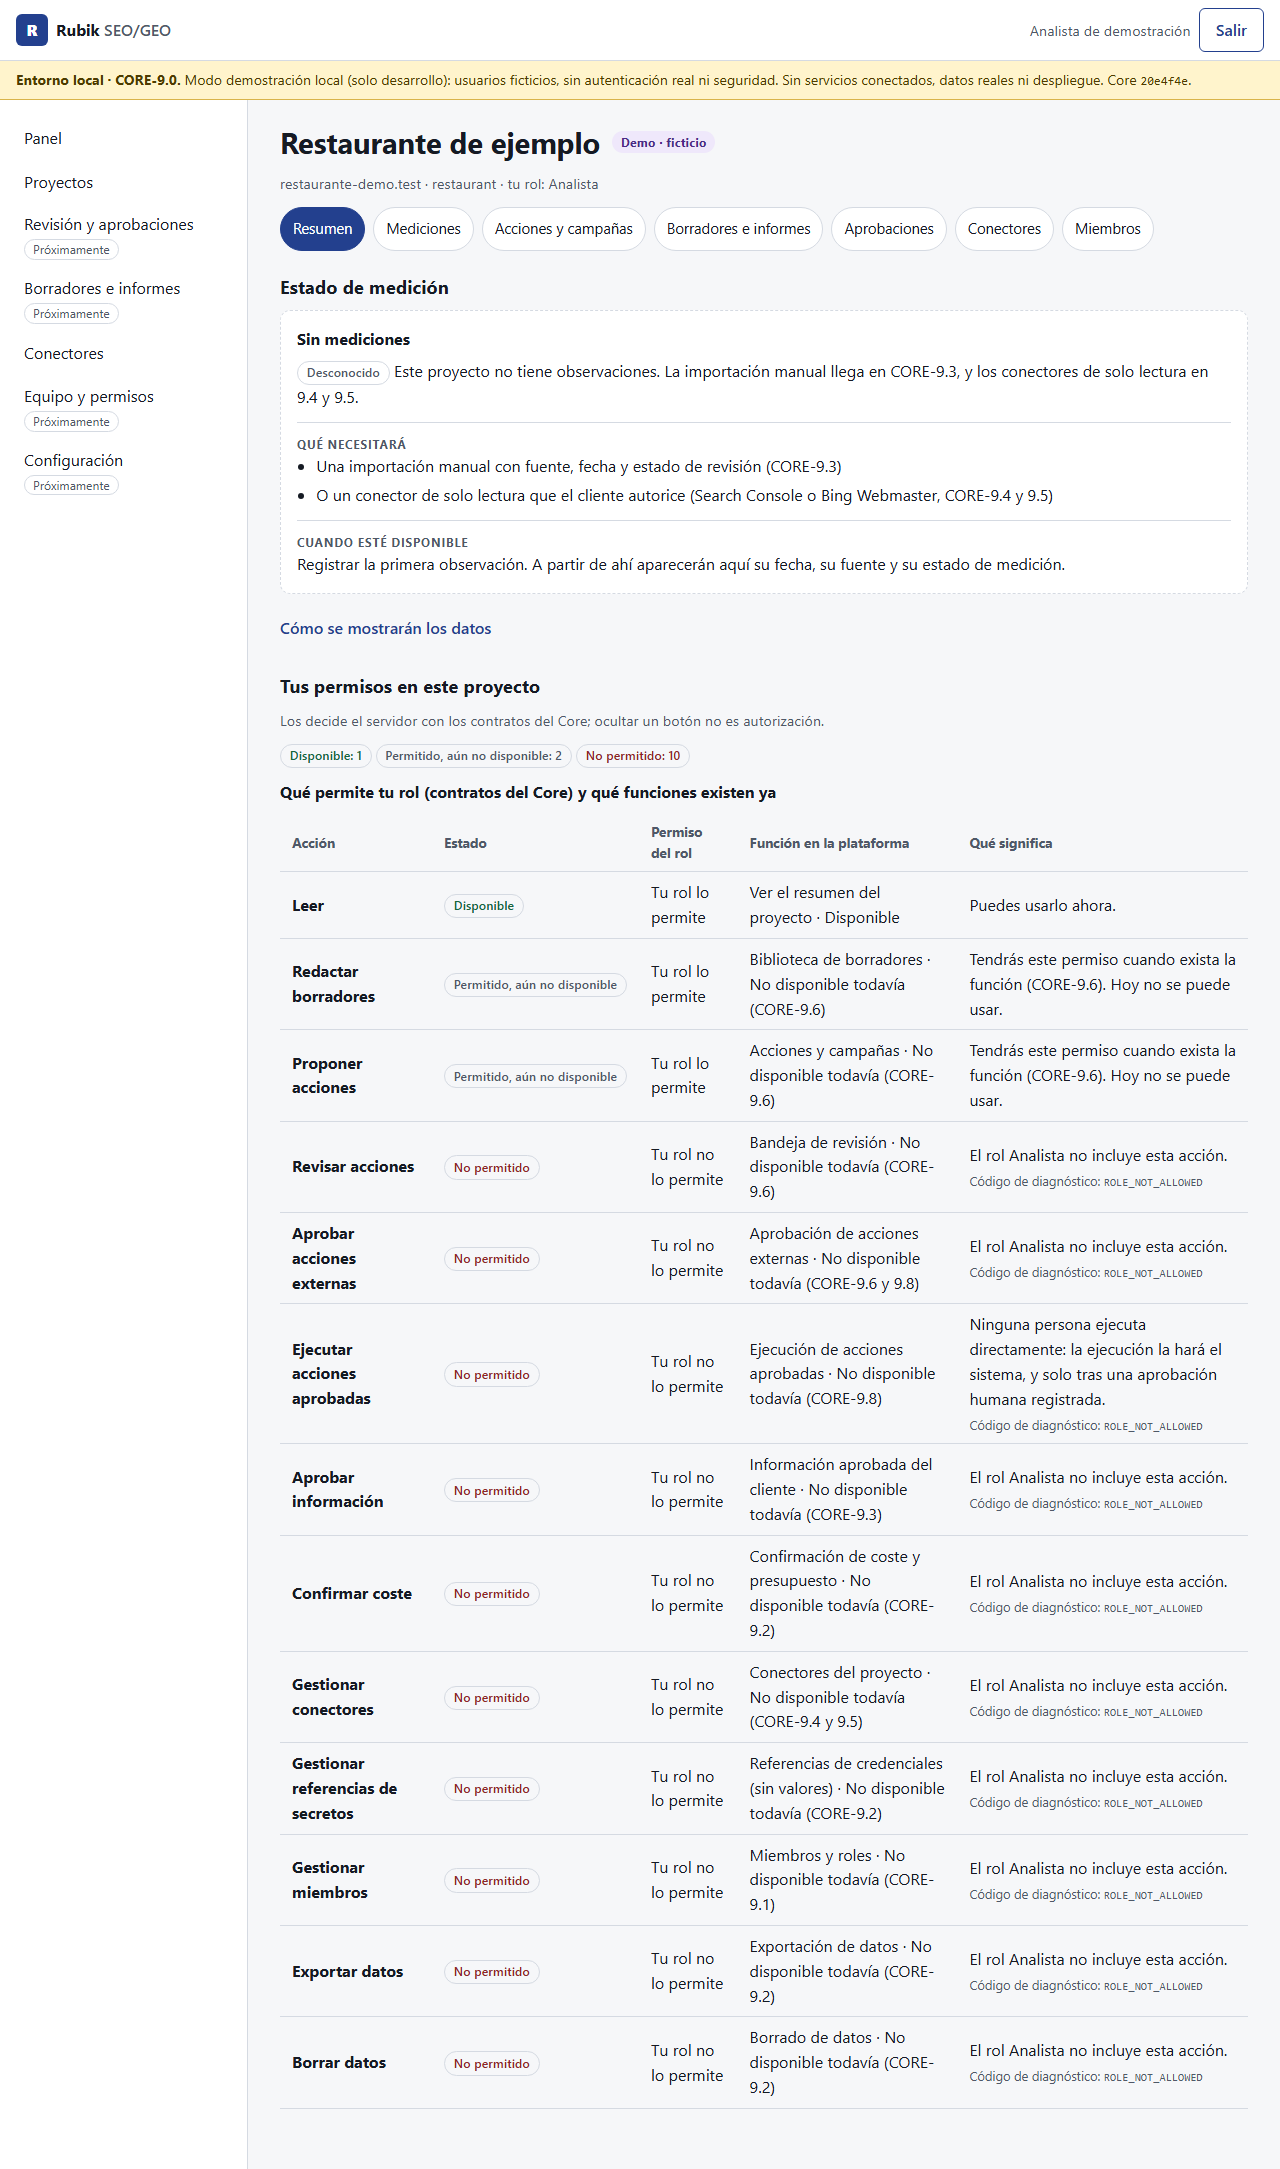
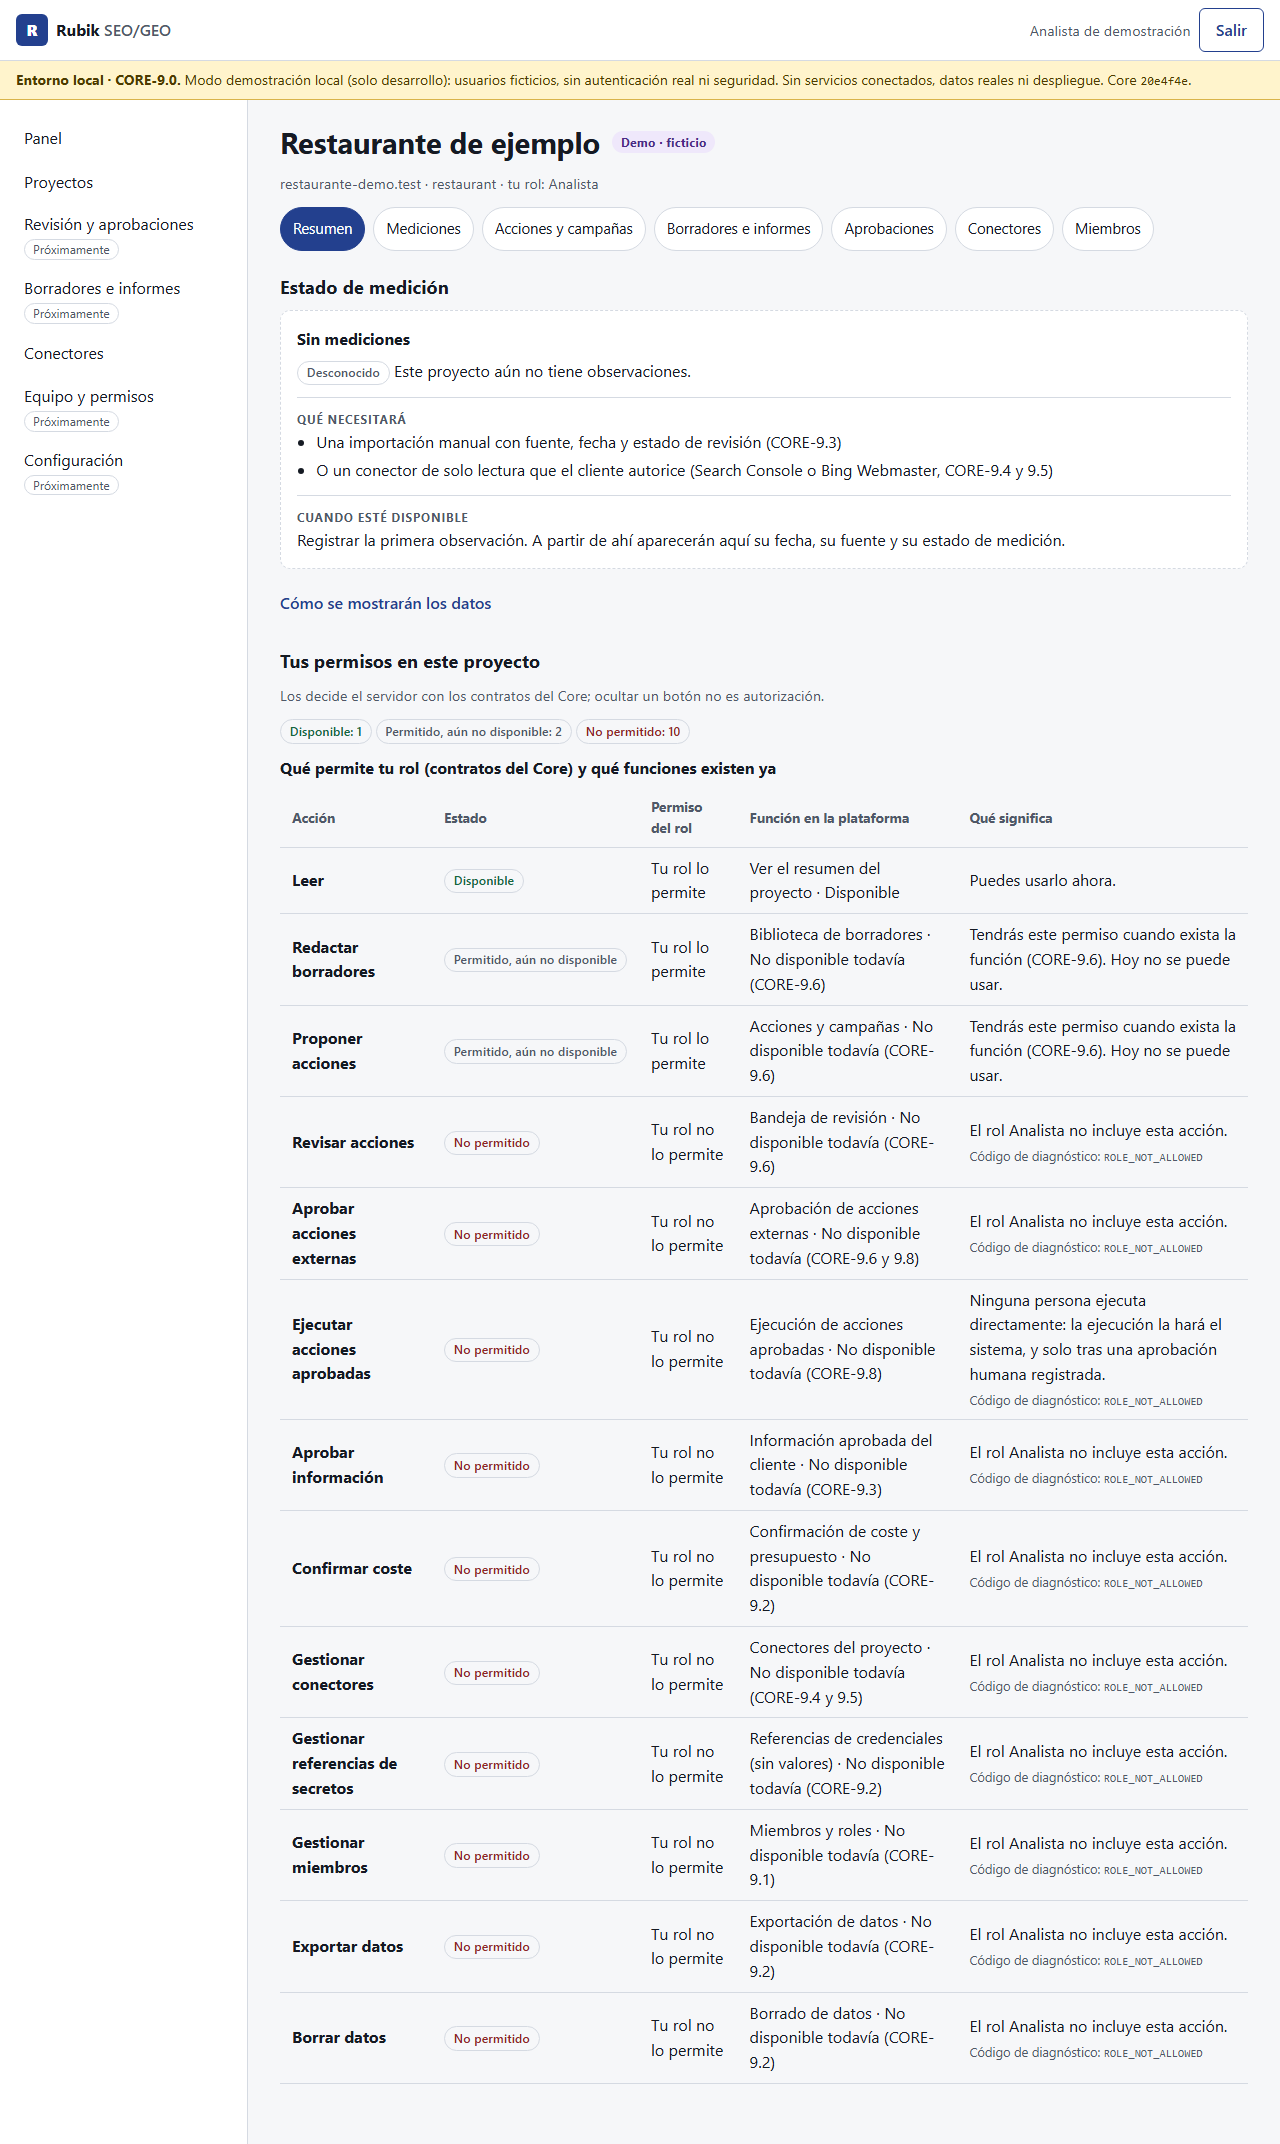
fix(core-9.0): review touch-ups on PR #1
- Project summary: the measurements empty state keeps a short main text
  ('Este proyecto aún no tiene observaciones'); stages appear only in
  'Qué necesitará', with 'Cuando esté disponible' unchanged.
- /proyectos: NOT_A_MEMBER_OF_SCOPE moved out of the user-facing text into
  a collapsed 'Información técnica' detail.
- e2e: the code is hidden by default and only inside details.tech; the
  empty state does not repeat stages; the new control is in the touch
  target check. Playwright 57/57; screenshots regenerated.
- ROADMAP/HANDOFF: HEAD d6e55b9 with run 36418555762 (green verify and
  ui), keeping earlier runs in a per-commit CI history.

diff --git a/e2e/visual.spec.ts b/e2e/visual.spec.ts
@@ -75,7 +75,7 @@ for (const p of PAGES) {
     expect(serious.map((v) => `${v.id}: ${v.nodes.map((n) => n.target.join(" ")).join(", ")}`)).toEqual([]);
 
     if (info.project.name.startsWith("movil")) {
-      const small = await page.$$eval(".btn, button, .nav-link, .mobile-nav > summary, .subnav a, .legend > summary", (els) =>
+      const small = await page.$$eval(".btn, button, .nav-link, .mobile-nav > summary, .subnav a, .legend > summary, .tech > summary", (els) =>
         els
           .filter((el) => (el as HTMLElement).offsetParent !== null)
           .map((el) => ({ text: (el.textContent ?? "").trim().slice(0, 30), h: el.getBoundingClientRect().height }))
@@ -162,4 +162,26 @@ test("unavailable areas explain what they will need and the next step", async ({
   }
   await page.goto("/panel");
   await expect(page.getByText("Qué necesitará")).toHaveCount(2);
+});
+
+test("projects page: the Core denial code is only secondary technical information", async ({ page, baseURL }) => {
+  await signInWithCookie(page, "demo-owner", baseURL!);
+  await page.goto("/proyectos");
+  const code = page.getByText("NOT_A_MEMBER_OF_SCOPE");
+  await expect(code).toHaveCount(1);
+  await expect(code).toBeHidden();
+  expect(await code.evaluate((el) => !!el.closest("details.tech") && !el.closest("main > p"))).toBe(true);
+  await page.getByText("Información técnica").click();
+  await expect(code).toBeVisible();
+});
+
+test("project summary: the measurements empty state does not repeat the stages", async ({ page, baseURL }) => {
+  await signInWithCookie(page, "demo-analyst", baseURL!);
+  await page.goto("/proyectos/agencia-demo/restaurante-demo");
+  const empty = page.locator("section#s-estado, section[aria-labelledby=s-estado]").locator(".empty");
+  await expect(empty.locator(".empty-body")).toHaveText(/^\s*Desconocido\s+Este proyecto aún no tiene observaciones\.\s*$/);
+  // Stages appear once, in "Qué necesitará", not repeated in the main text.
+  const text = await empty.innerText();
+  expect(text.match(/CORE-9\.3/g)?.length).toBe(1);
+  expect(text.match(/CORE-9\.4/g)?.length).toBe(1);
 });

diff --git a/src/app/proyectos/page.tsx b/src/app/proyectos/page.tsx
@@ -16,8 +16,11 @@ export default async function ProjectsPage() {
       <p>
         Solo ves los proyectos de los que <strong>{user.displayName}</strong> es miembro. Los demás no aparecen, y si
         alguien intenta abrirlos obtiene la misma página que para un proyecto inexistente.
-        <span className="diag">Código de diagnóstico al denegar: <code>NOT_A_MEMBER_OF_SCOPE</code></span>
       </p>
+      <details className="tech">
+        <summary>Información técnica</summary>
+        <p className="diag">Código que devuelve el Core al denegar el acceso: <code>NOT_A_MEMBER_OF_SCOPE</code></p>
+      </details>
       {projects.length === 0 ? (
         <EmptyState
           title="Sin proyectos"

diff --git a/src/app/globals.css b/src/app/globals.css
@@ -183,6 +183,10 @@ main:focus { outline: none; }
 .checklist li { margin-bottom: var(--space-2); }
 
 .legend { margin-top: var(--space-3); }
+/* Secondary technical detail (diagnostic codes): collapsed, below the user-facing text. */
+.tech { margin: 0 0 var(--space-3); }
+.tech > summary { cursor: pointer; min-height: var(--tap); display: flex; align-items: center; font-size: 0.85rem; color: var(--color-muted); }
+.tech .diag { margin: 0; }
 .legend > summary { cursor: pointer; min-height: var(--tap); display: flex; align-items: center; font-weight: 600; color: var(--color-accent); }
 .legend dl { margin: 0; display: grid; gap: var(--space-2); }
 .legend dt { font-weight: 700; }

diff --git a/src/app/proyectos/[tenantId]/[projectId]/page.tsx b/src/app/proyectos/[tenantId]/[projectId]/page.tsx
@@ -29,8 +29,7 @@ export default async function ProjectPage({ params }: { params: Promise<{ tenant
           nextStep="Registrar la primera observación. A partir de ahí aparecerán aquí su fecha, su fuente y su estado de medición."
         >
           <p>
-            <StatusPill tone="neutral">Desconocido</StatusPill> Este proyecto no tiene observaciones. La importación manual llega en
-            CORE-9.3, y los conectores de solo lectura en 9.4 y 9.5.
+            <StatusPill tone="neutral">Desconocido</StatusPill> Este proyecto aún no tiene observaciones.
           </p>
         </EmptyState>
         <details className="legend">

diff --git a/docs/HANDOFF.md b/docs/HANDOFF.md
@@ -150,3 +150,37 @@
 **Pendiente de revisión visual:** en móvil la lista de permisos es larga (13 bloques). Se puede compactar si el propietario lo pide.
 
 **CI:** [run 36418239963](https://github.com/Juanmaes83/PLATAFORMA-RUBIK-SEO-GEO/actions/runs/36418239963) del HEAD `de4c3da` en verde: `verify` en Node 22.23.2 y 24.21.0, y `ui` 51/51 con el artefacto de capturas. El commit siguiente solo registra este run en la documentación; su CI consta en el PR.
+
+## Sesión 4 — remates de revisión del PR #1 (28/09/2026)
+
+**Punto de partida verificado:** HEAD remoto `d6e55b9`, igual al local, con el PR #1 abierto. Su CI, [run 36418555762](https://github.com/Juanmaes83/PLATAFORMA-RUBIK-SEO-GEO/actions/runs/36418555762), está **en verde**: `verify` en Node 22 y 24, y `ui` 51/51.
+
+**Hecho:**
+
+1. **Resumen del proyecto:** el texto principal del estado vacío de mediciones queda en «Desconocido · Este proyecto aún no tiene observaciones.». Las etapas (CORE-9.3, 9.4 y 9.5) solo aparecen en «Qué necesitará», y «Cuando esté disponible» se mantiene.
+2. **`/proyectos`:** `NOT_A_MEMBER_OF_SCOPE` ya no está en el texto dirigido al usuario. Queda como «Información técnica», un `<details>` plegado y secundario debajo de la explicación.
+3. **Pruebas e2e nuevas:**
+   - en `/proyectos` el código está oculto por defecto y solo dentro de `details.tech`;
+   - el estado vacío de mediciones no repite las etapas.
+
+   El control plegable se añadió a la comprobación de objetivos táctiles.
+4. Capturas regeneradas en [docs/visual](visual/README.md): cambian las vistas 04, 05 y 06, en los tres anchos.
+
+**Pruebas locales** (Windows, Node 24.14.1):
+
+- `npm run verify` en verde: pin, secretos (102 ficheros), lint, `tsc`, 28/28 pruebas unitarias y build.
+- `npm run visual:evidence` (Playwright): 57/57, las 51 anteriores más 2 nuevas en cada uno de los 3 anchos.
+
+### Historial de CI del PR #1 (commit → run)
+
+| Commit | Contenido | Run | Resultado |
+|---|---|---|---|
+| `728ac7d` | Base CORE-9.0 | [36411911462](https://github.com/Juanmaes83/PLATAFORMA-RUBIK-SEO-GEO/actions/runs/36411911462) | Verde (verify Node 22/24) |
+| `14d88b6` | Documentación: CI de `728ac7d` | [36412082623](https://github.com/Juanmaes83/PLATAFORMA-RUBIK-SEO-GEO/actions/runs/36412082623) | Verde |
+| `f947e53` | D-27, demo solo en desarrollo, CI visual | [36414209120](https://github.com/Juanmaes83/PLATAFORMA-RUBIK-SEO-GEO/actions/runs/36414209120) | Verde (verify Node 22/24, ui 42/42) |
+| `5f67c05` | Documentación: CI de `f947e53` | [36414491097](https://github.com/Juanmaes83/PLATAFORMA-RUBIK-SEO-GEO/actions/runs/36414491097) | Verde |
+| `de4c3da` | Auditoría de contenido y usabilidad | [36418239963](https://github.com/Juanmaes83/PLATAFORMA-RUBIK-SEO-GEO/actions/runs/36418239963) | Verde (verify Node 22/24, ui 51/51) |
+| `d6e55b9` | Documentación: CI de `de4c3da` | [36418555762](https://github.com/Juanmaes83/PLATAFORMA-RUBIK-SEO-GEO/actions/runs/36418555762) | Verde (verify Node 22/24, ui 51/51) |
+| Commit de esta sesión | Remates de revisión | Se registra en la checklist del PR y en un comentario al terminar | — |
+
+Sin merge ni despliegue.

diff --git a/docs/ROADMAP.md b/docs/ROADMAP.md
@@ -4,7 +4,7 @@ Fuente de estado de este repositorio. El plan global y sus criterios están en [
 
 | Etapa | Estado | Notas |
 |---|---|---|
-| **CORE-9.0 · Descubrimiento y base** | 🟡 [PR #1](https://github.com/Juanmaes83/PLATAFORMA-RUBIK-SEO-GEO/pull/1) abierto (`feat/core-9-0-bootstrap`); D-27 aplicada y auditoría de contenido y usabilidad corregida (sesión 3); CI [run 36418239963](https://github.com/Juanmaes83/PLATAFORMA-RUBIK-SEO-GEO/actions/runs/36418239963) en verde (verify Node 22/24, ui 51/51); pendiente de la revisión del propietario | Next.js 16, Core fijado en `20e4f4e`, demo solo en desarrollo (bloqueada en producción), estructura mobile-first con capturas ([ADR 0002](adr/0002-ux-mobile-first.md), [docs/visual](visual/README.md)), permisos separados de la disponibilidad, conectores explicados y todos «No conectado». Sin persistencia ni servicios. Ver [HANDOFF](HANDOFF.md) |
+| **CORE-9.0 · Descubrimiento y base** | 🟡 [PR #1](https://github.com/Juanmaes83/PLATAFORMA-RUBIK-SEO-GEO/pull/1) abierto (`feat/core-9-0-bootstrap`); D-27 aplicada, auditoría de contenido y usabilidad corregida (sesión 3) y remates de revisión (sesión 4). CI por commit: `de4c3da` → [run 36418239963](https://github.com/Juanmaes83/PLATAFORMA-RUBIK-SEO-GEO/actions/runs/36418239963) en verde; `d6e55b9` → [run 36418555762](https://github.com/Juanmaes83/PLATAFORMA-RUBIK-SEO-GEO/actions/runs/36418555762) en verde (verify Node 22/24, ui 51/51). El commit de la sesión 4 consta en el PR, y el historial completo en el [HANDOFF](HANDOFF.md). Pendiente de la revisión del propietario | Next.js 16, Core fijado en `20e4f4e`, demo solo en desarrollo (bloqueada en producción), estructura mobile-first con capturas ([ADR 0002](adr/0002-ux-mobile-first.md), [docs/visual](visual/README.md)), permisos separados de la disponibilidad, conectores explicados y todos «No conectado». Sin persistencia ni servicios. Ver [HANDOFF](HANDOFF.md) |
 | CORE-9.1 · Identidad, organizaciones y aislamiento | ⏳ Bloqueada por tareas del propietario | Supabase: proyecto de prueba, región, plan, MFA y RLS ([SETUP-SUPABASE](SETUP-SUPABASE.md)) |
 | CORE-9.2 · Persistencia, auditoría y provenance productiva | ⏳ | Depende de 9.1 y de la decisión de claves y retención |
 | CORE-9.3 · Importación manual | ⏳ | Primer flujo con datos (fixtures anonimizados) |
